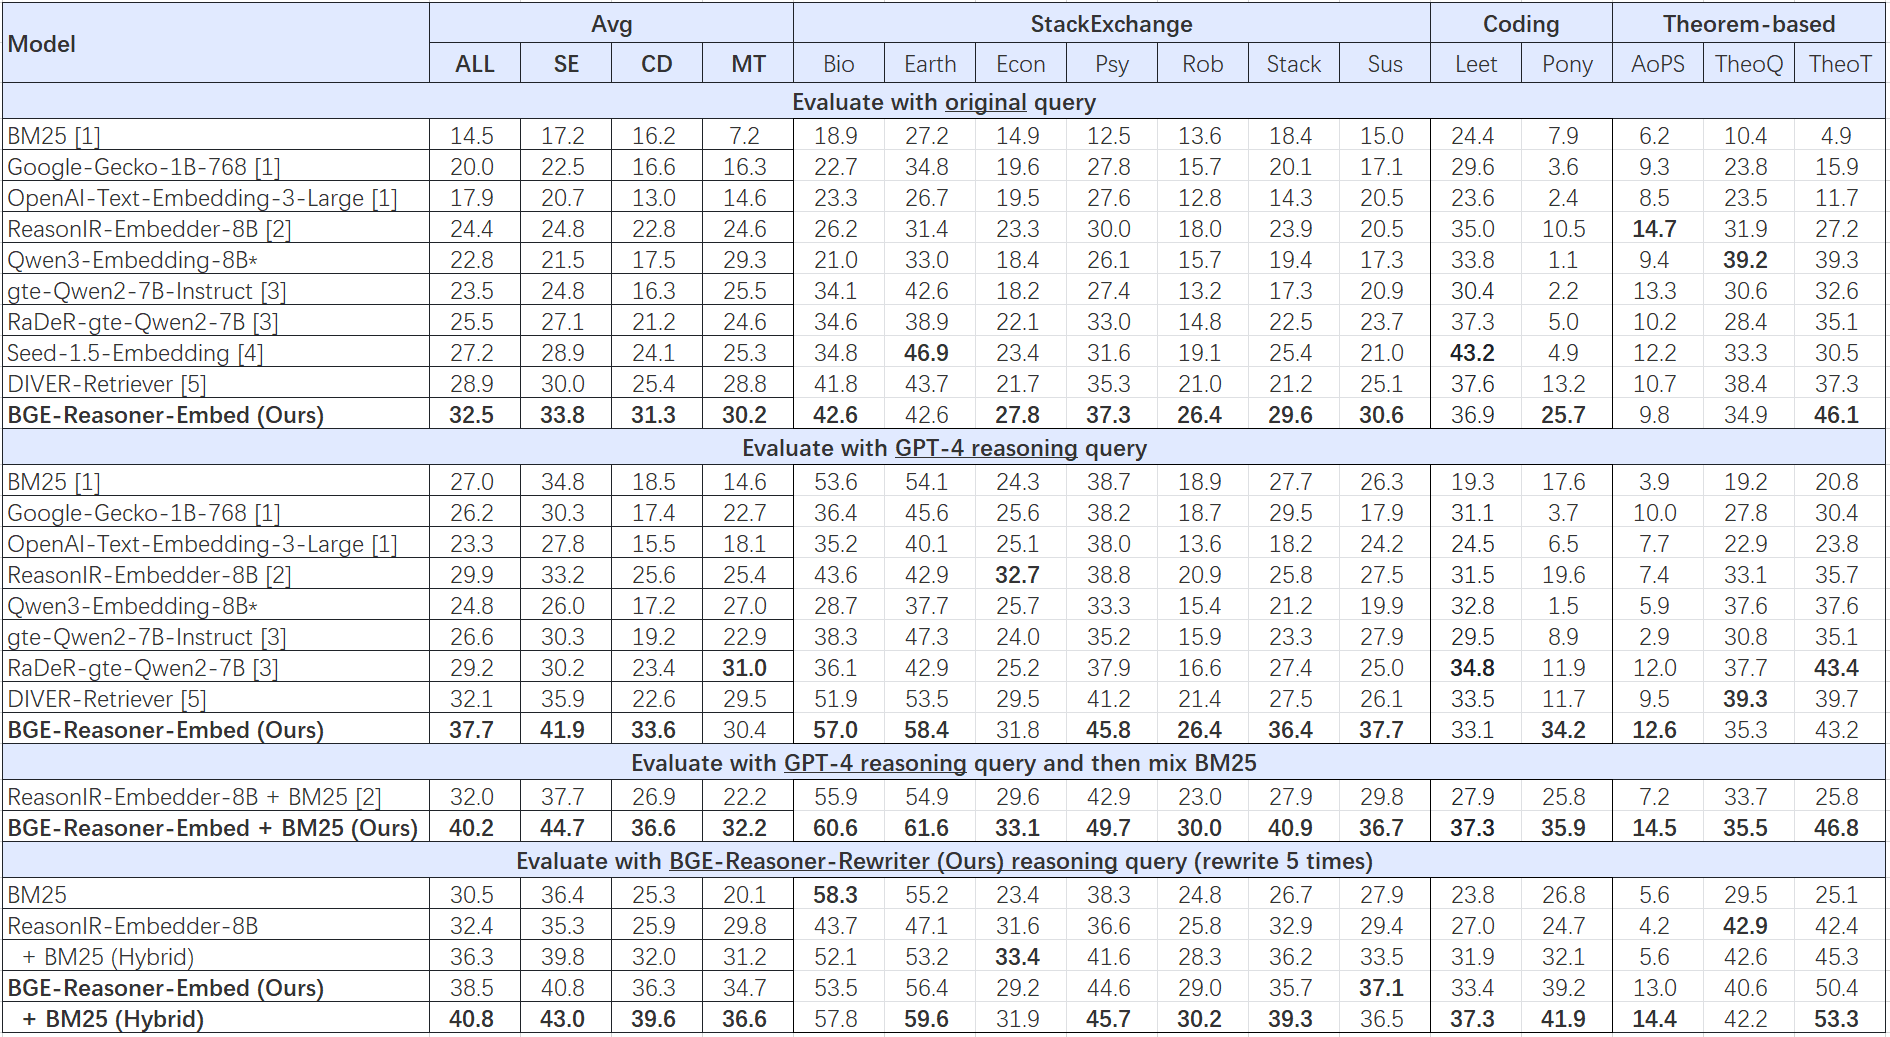
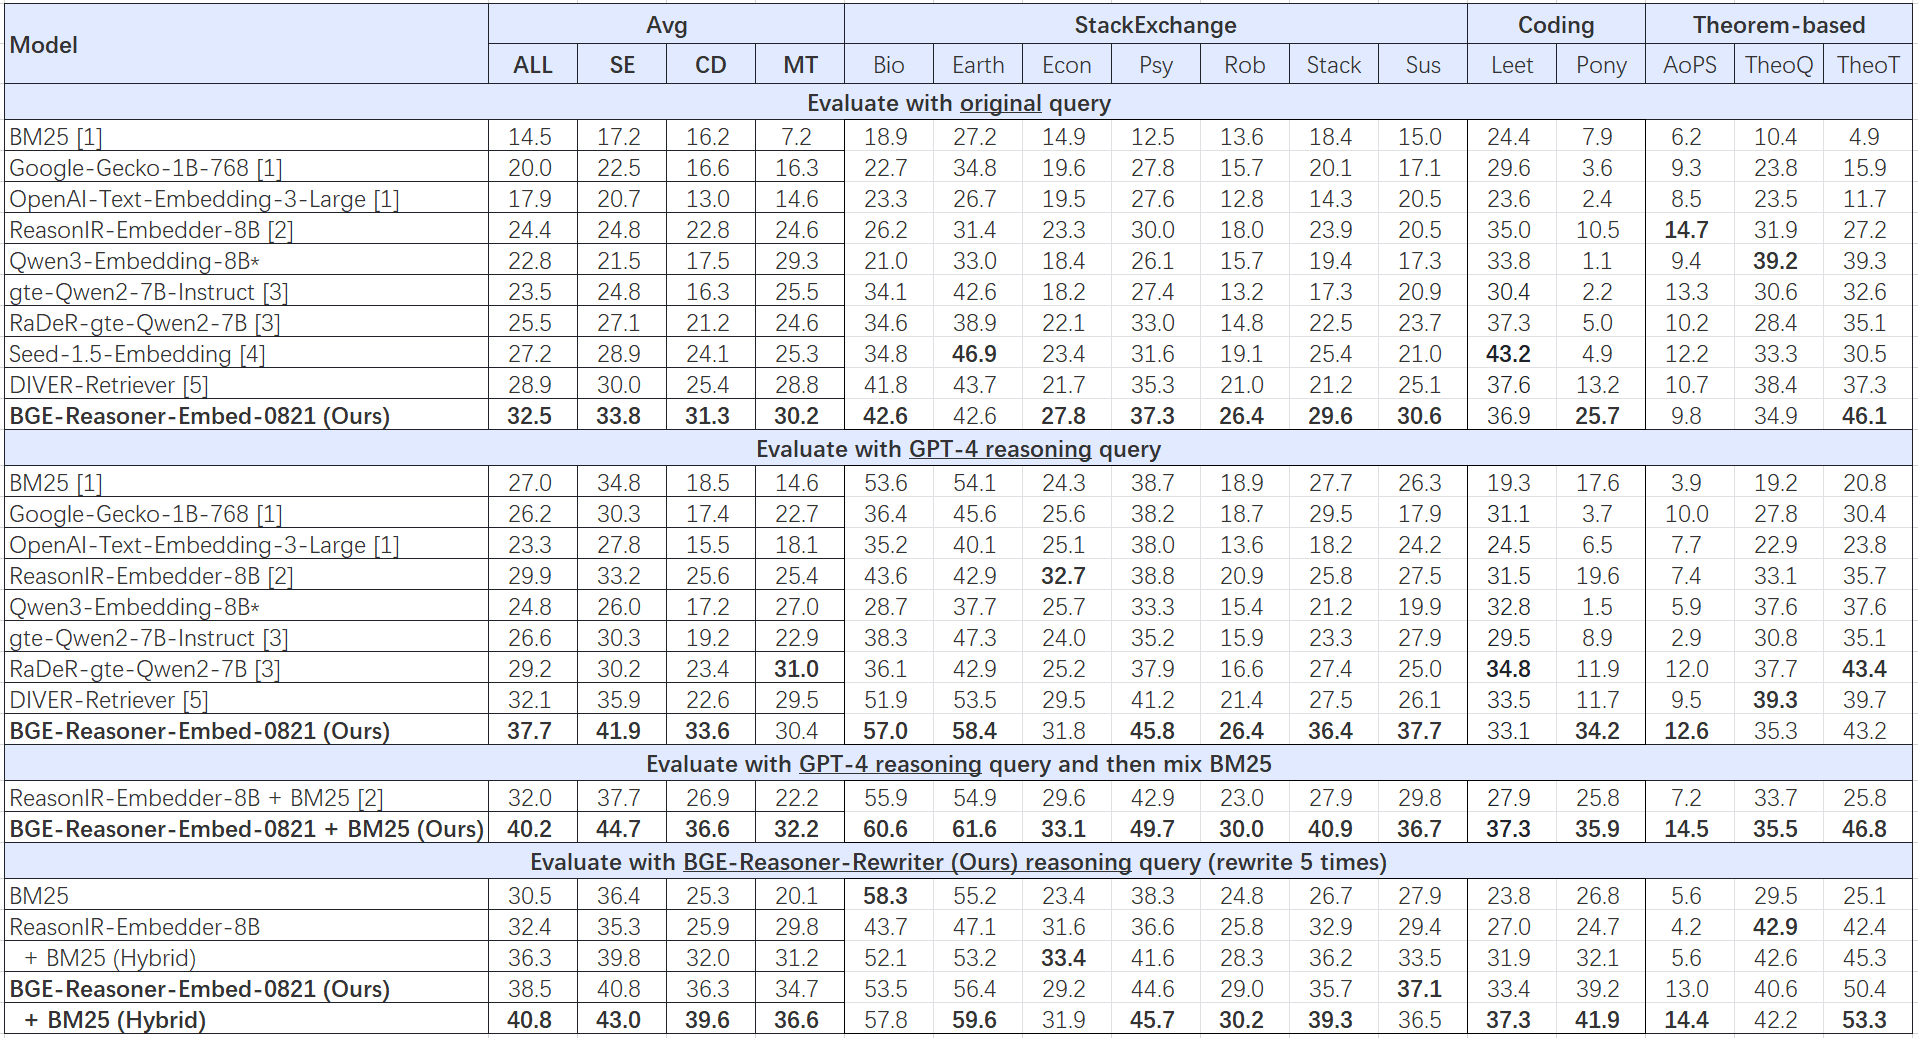
Update BGE-Reasoner

Changed region(s): [[0.0, 0.0, 0.9989, 1.0], [0.0, 0.0309, 0.0312, 0.0617]]

diff --git a/research/BGE_Reasoner/README.md b/research/BGE_Reasoner/README.md
@@ -65,11 +65,13 @@ Note:
 ### Embedder & Rewriter Results
 
 
-**BGE-Reasoner-Embed** also achieves excellent performance on the BRIGHT benchmark:
+**BGE-Reasoner-Embed-0821**, submitted to the BRIGHT leaderboard on Aug 21, 2025, also achieves excellent performance on the benchmark:
 
 - With original queries, it attains **nDCG@10 = 32.5**, an absolute improvement of **+3.6** over the previous best ([DIVER](https://arxiv.org/pdf/2508.07995): 28.9).
 - Using the GPT-4 reasoning queries provided by BRIGHT, the score increases to **37.7**, which is **+5.6** higher than DIVER’s corresponding result (32.1). Combining our embedding-based retrieval with BM25 (hybrid fusion, weights: 0.75 / 0.25) yields **nDCG@10 = 40.2**.
 - Finally, when using rewritten queries produced by **BGE-Reasoner-Rewriter** and fusing with BM25 (weights: 0.75 / 0.25), we reach **nDCG@10 = 40.8**.
+
+> On Sep 4, 2025, we released the first-stage search results of BGE-Reasoner-Embed-0821 using original queries and GPT-4 reasoning queries (Top-2000 candidates; excluded IDs removed) [here](https://huggingface.co/datasets/hanhainebula/bright-search-results_bge-reasoner-embed-0821/tree/main), and part of our training data [here](https://huggingface.co/datasets/hanhainebula/bge-reasoner-data/tree/main/bge-reasoner-data-0904).
 
 
 ![BGE-Reasoner-Embed & BGE-Reasoner-Rewriter Results](./imgs/embedder-rewriter_results.png)
